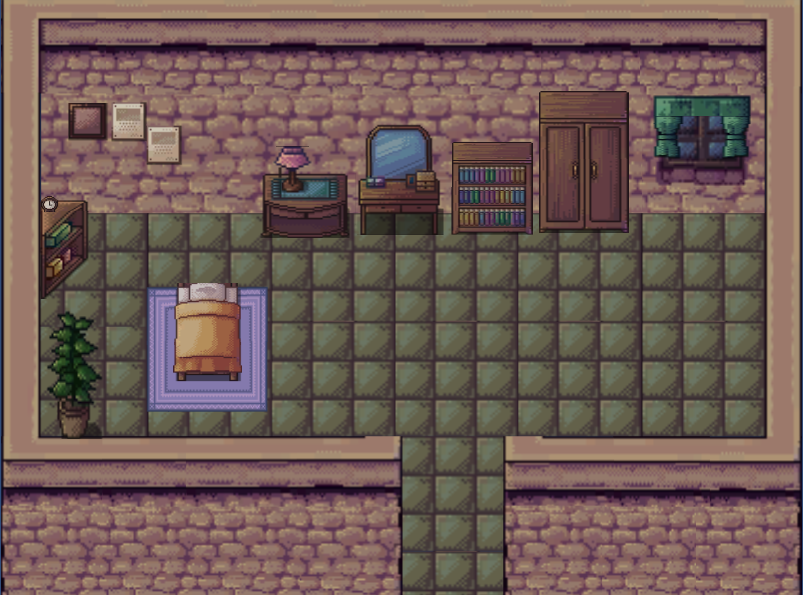
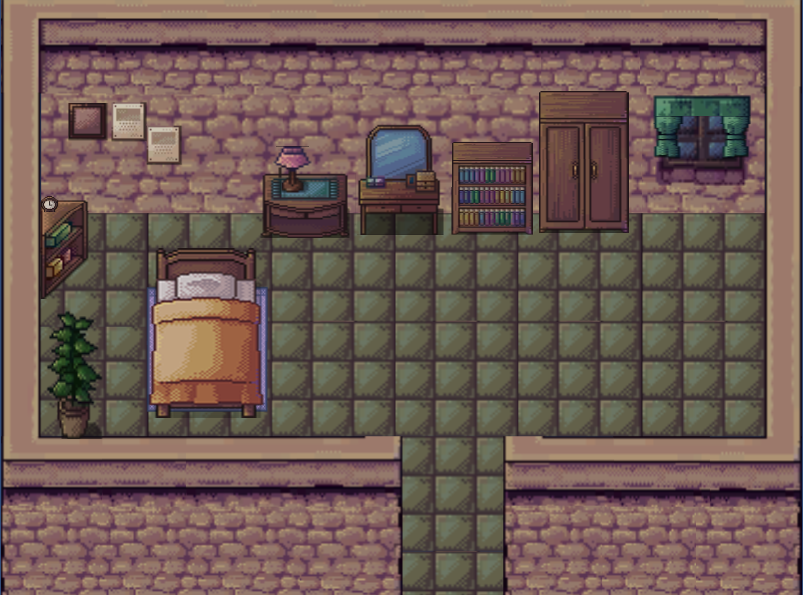
Arreglos prints y carga de cuarto en una sola imagen

Changed region(s): [[0.1868, 0.3933, 0.3425, 0.7261]]

diff --git a/Assets/Scripts/JSONLoaderJuego0.cs b/Assets/Scripts/JSONLoaderJuego0.cs
@@ -266,7 +266,27 @@ public class JSONLoaderJuego0 : MonoBehaviour
 
             objTP.transform.position = new Vector3(x,y,z);
             objTP.tag = tag;
-        }
+    }
+
+    private IEnumerator crearObjSprite(string nombre, JsonData posicion, WWW spriteWWW){
+        yield return spriteWWW;
+            if (spriteWWW.error == null)
+            {
+                GameObject objTP;
+                objTP = new GameObject(nombre);
+                float x = float.Parse(""+posicion[0]);
+                float y = float.Parse(""+posicion[1]);
+                float z = float.Parse(""+posicion[2]);
+
+                objTP.transform.position = new Vector3(x,y,z);
+                objTP.AddComponent<SpriteRenderer>();
+                objTP.GetComponent<SpriteRenderer>().sprite = Sprite.Create(spriteWWW.texture, new Rect(0, 0, spriteWWW.texture.width, spriteWWW.texture.height), new Vector2(0.5f, 0.5f));
+            }
+            else
+            {
+                Debug.LogError("No se puede cargar la imágen del personaje");
+            }
+    }
 
     private void createCollidersInteractions(string nombreActivador, JsonData posicion, JsonData offset, JsonData tamanio, string isTrigger, string tpScript, string cambio){
             GameObject objToSpawn;

diff --git a/Assets/Scripts/EnergyBar.cs b/Assets/Scripts/EnergyBar.cs
@@ -38,7 +38,6 @@ public class EnergyBar : MonoBehaviour
 
     public void Hungry(float value)
 	{
-        print(value);
         GameObject fondo = GameObject.Find("Background");
         GameObject camara = GameObject.Find("Main Camera");
         int hora=fondo.GetComponent<TimeDayFunction>().hora;

diff --git a/Assets/Scripts/AudioScript.cs b/Assets/Scripts/AudioScript.cs
@@ -36,9 +36,7 @@ public class AudioScript : MonoBehaviour
 	}
 
     public void verificarAudioDia(int dia){
-        print(dia);
         if(dia!=4){
-            
             MusicSource.clip = MusicClip;
             MusicSource.Play();	
         }
